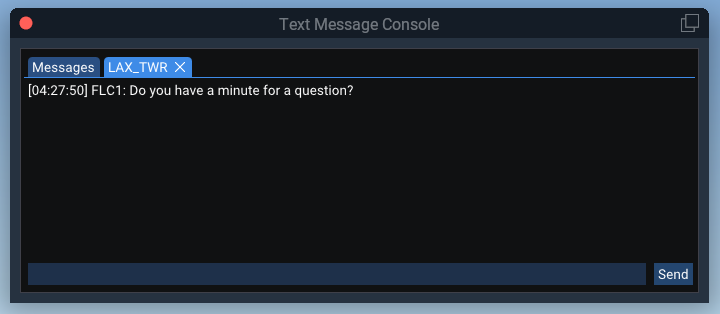
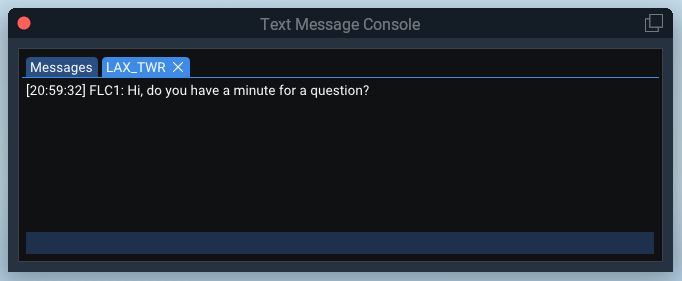
Update xPilot website links
- Update Text Message Console screenshots
- Add info on how to send a message

Changed region(s): [[0.0, 0.0, 1.0, 0.968]]

diff --git a/docs/configuration.md b/docs/configuration.md
@@ -3,7 +3,7 @@
 !> **Upgrading from v1.3.20 or earlier:** Beginning with v1.3.21, xPilot uses JSON to store the client configuration. You will need to reconfigure your settings after upgrading.
 
 ## Installation
-After you download the installer (which can be obtained from the [xPilot homepage](https://xpilot.clowd.io/)), double-click the executable to launch the installer. You will be prompted to choose the root folder of your X-Plane installation (this is where the X-Plane.exe lives). You will then be prompted to choose an installation location for the xPilot client. It is recommended that you leave the default location selected as the local application data folder to avoid any file permission problems later.
+After you download the installer (which can be obtained from the [xPilot homepage](http://xpilot-project.org)), double-click the executable to launch the installer. You will be prompted to choose the root folder of your X-Plane installation (this is where the X-Plane.exe lives). You will then be prompted to choose an installation location for the xPilot client. It is recommended that you leave the default location selected as the local application data folder to avoid any file permission problems later.
 
 When the installation is complete, you will have the option of launching xPilot.
 
@@ -220,6 +220,8 @@ In addition to using the xPilot Client to communicate via text, you can also use
 To request a controller's ATIS, send the command `.atis <Callsign>` in the main Messages tab. For example `.atis LAX_TWR`.
 
 To open a new private message tab, use the command `.chat <Callsign> <Message>`. For example `.chat LAX_TWR Do you have a minute for a question?`. Alternatively, you can also open a private message tab without sending an initial message by using just .chat CALLSIGN.
+
+To send a message, press the <Enter> key on your keyboard.
 
 ![Text Message Console PM](images/TextMessageConsolePM.png)
 

diff --git a/docs/README.md b/docs/README.md
@@ -7,4 +7,4 @@ xPilot is an X-Plane pilot client for Windows that allows you to connect to the 
 > VATSIM (short for the Virtual Air Traffic Simulation Network) is a completely free online platform which allows virtual pilots, wherever they are in the world, to connect their flight simulators into one shared virtual world. VATSIM also simulates air traffic control in this virtual world, creating the ultimate as-real-as-it-gets experience for you, the virtual aviation enthusiast.
 
 ## How do I download xPilot? {docsify-ignore}
-You can obtain the latest installer from the [xPilot Homepage](https://xpilot.clowd.io).
+You can obtain the latest installer from the [xPilot Homepage](http://xpilot-project.org).
